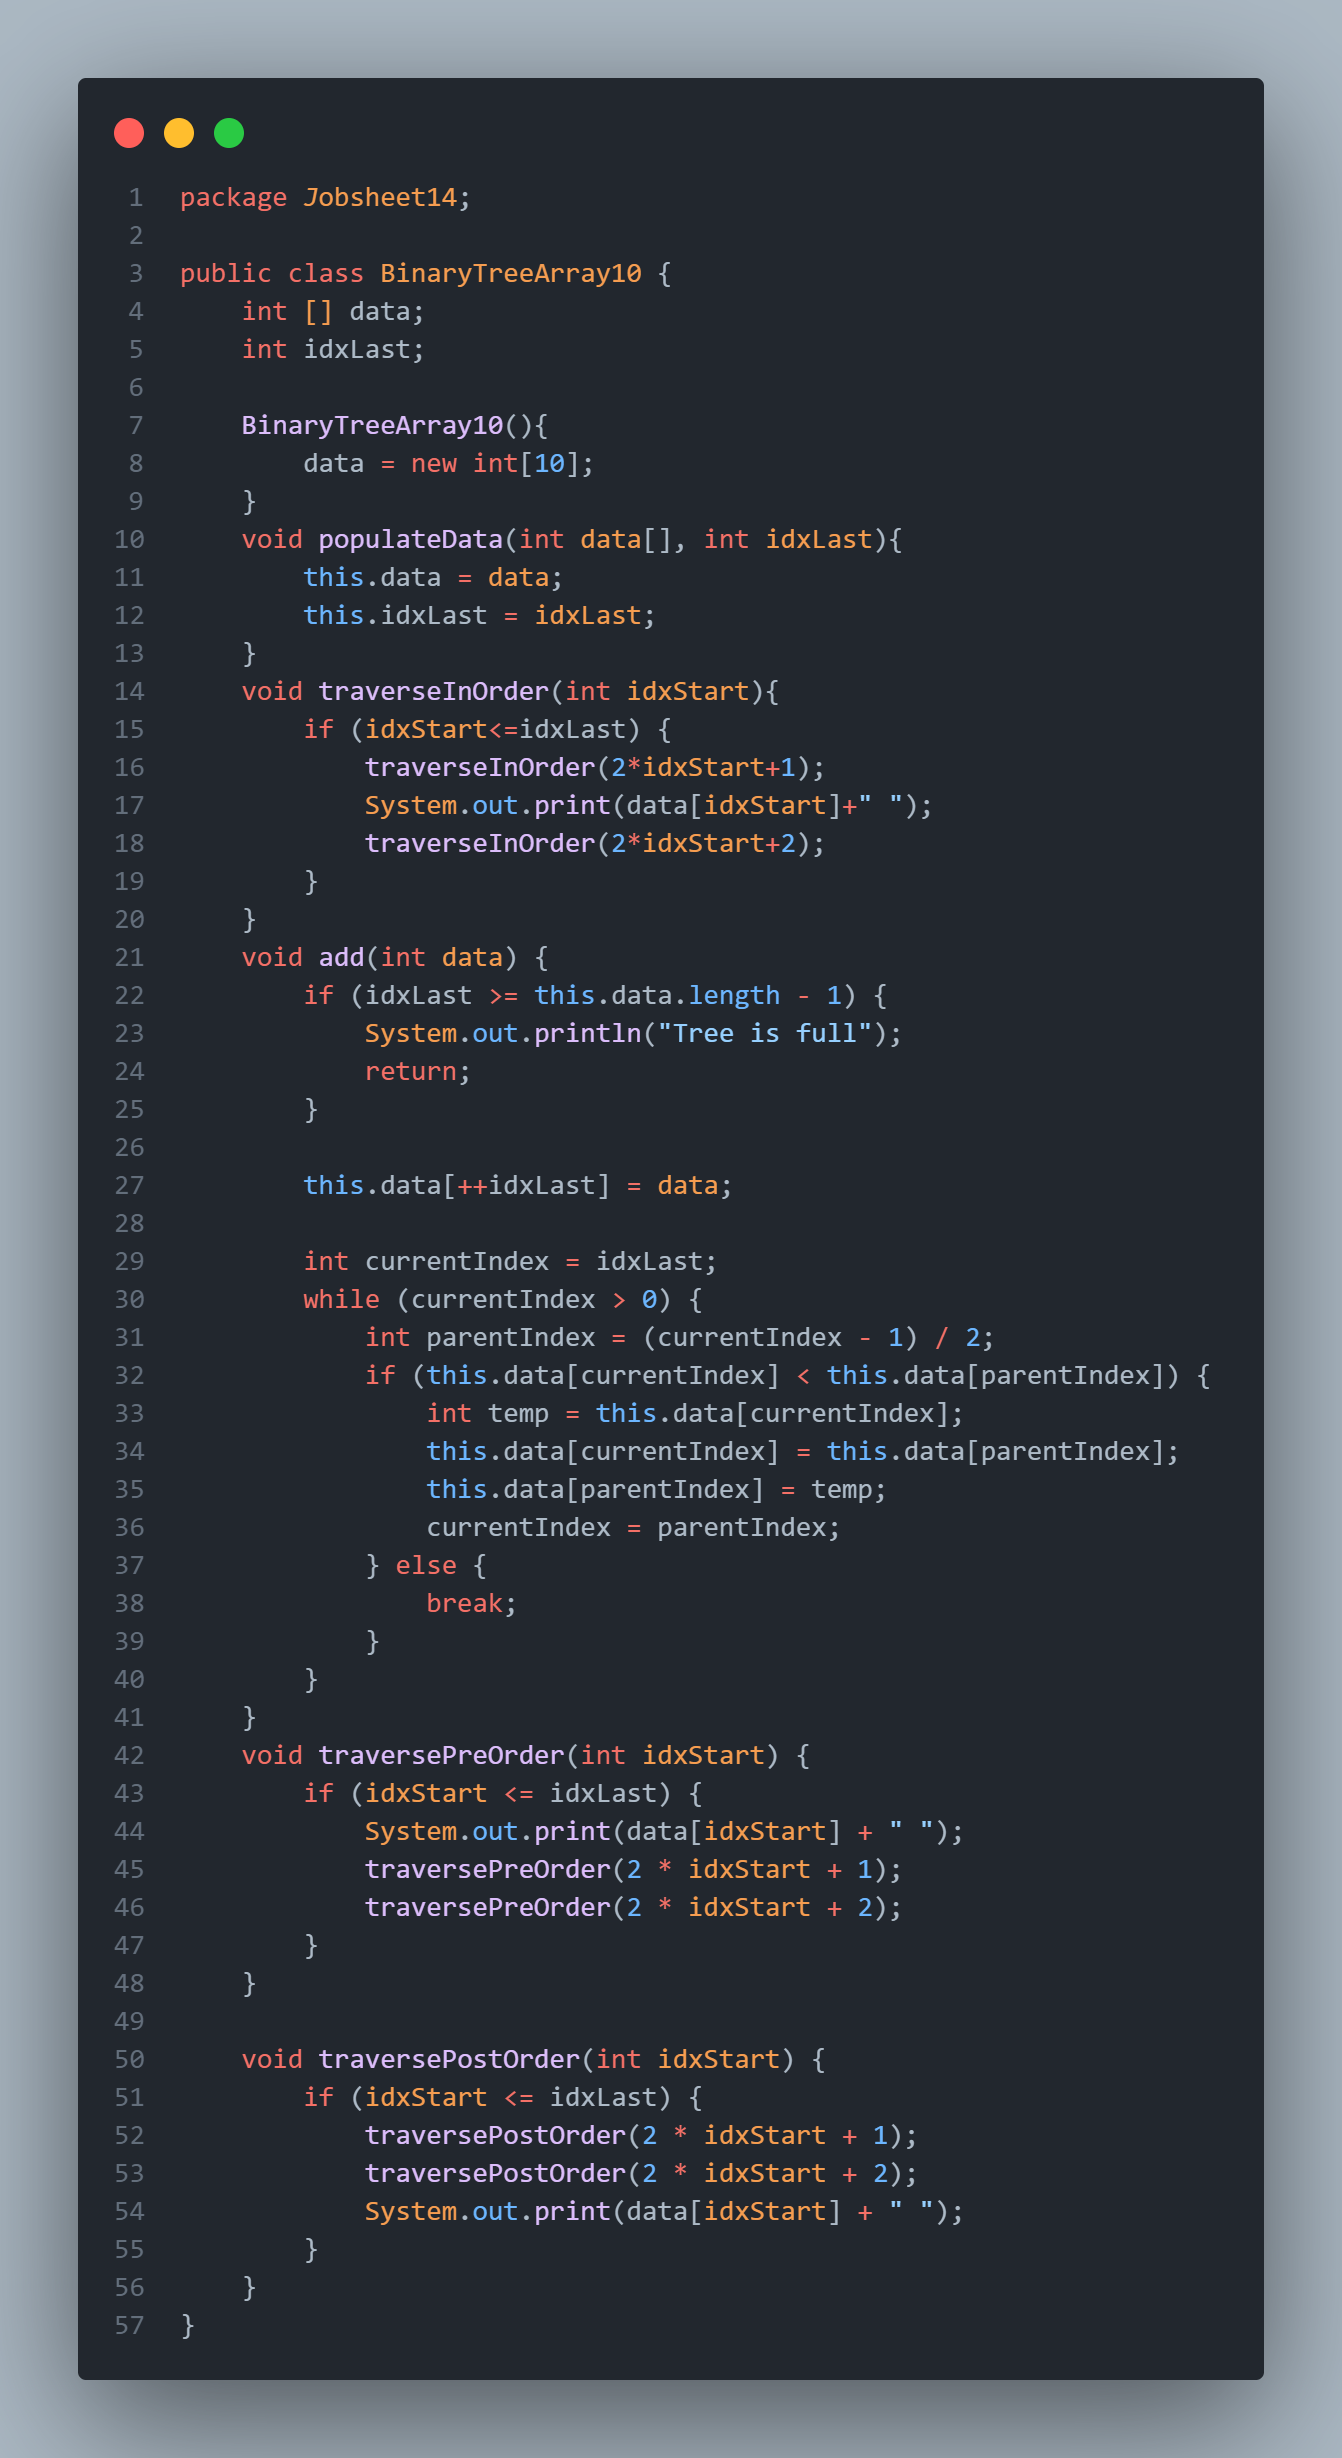
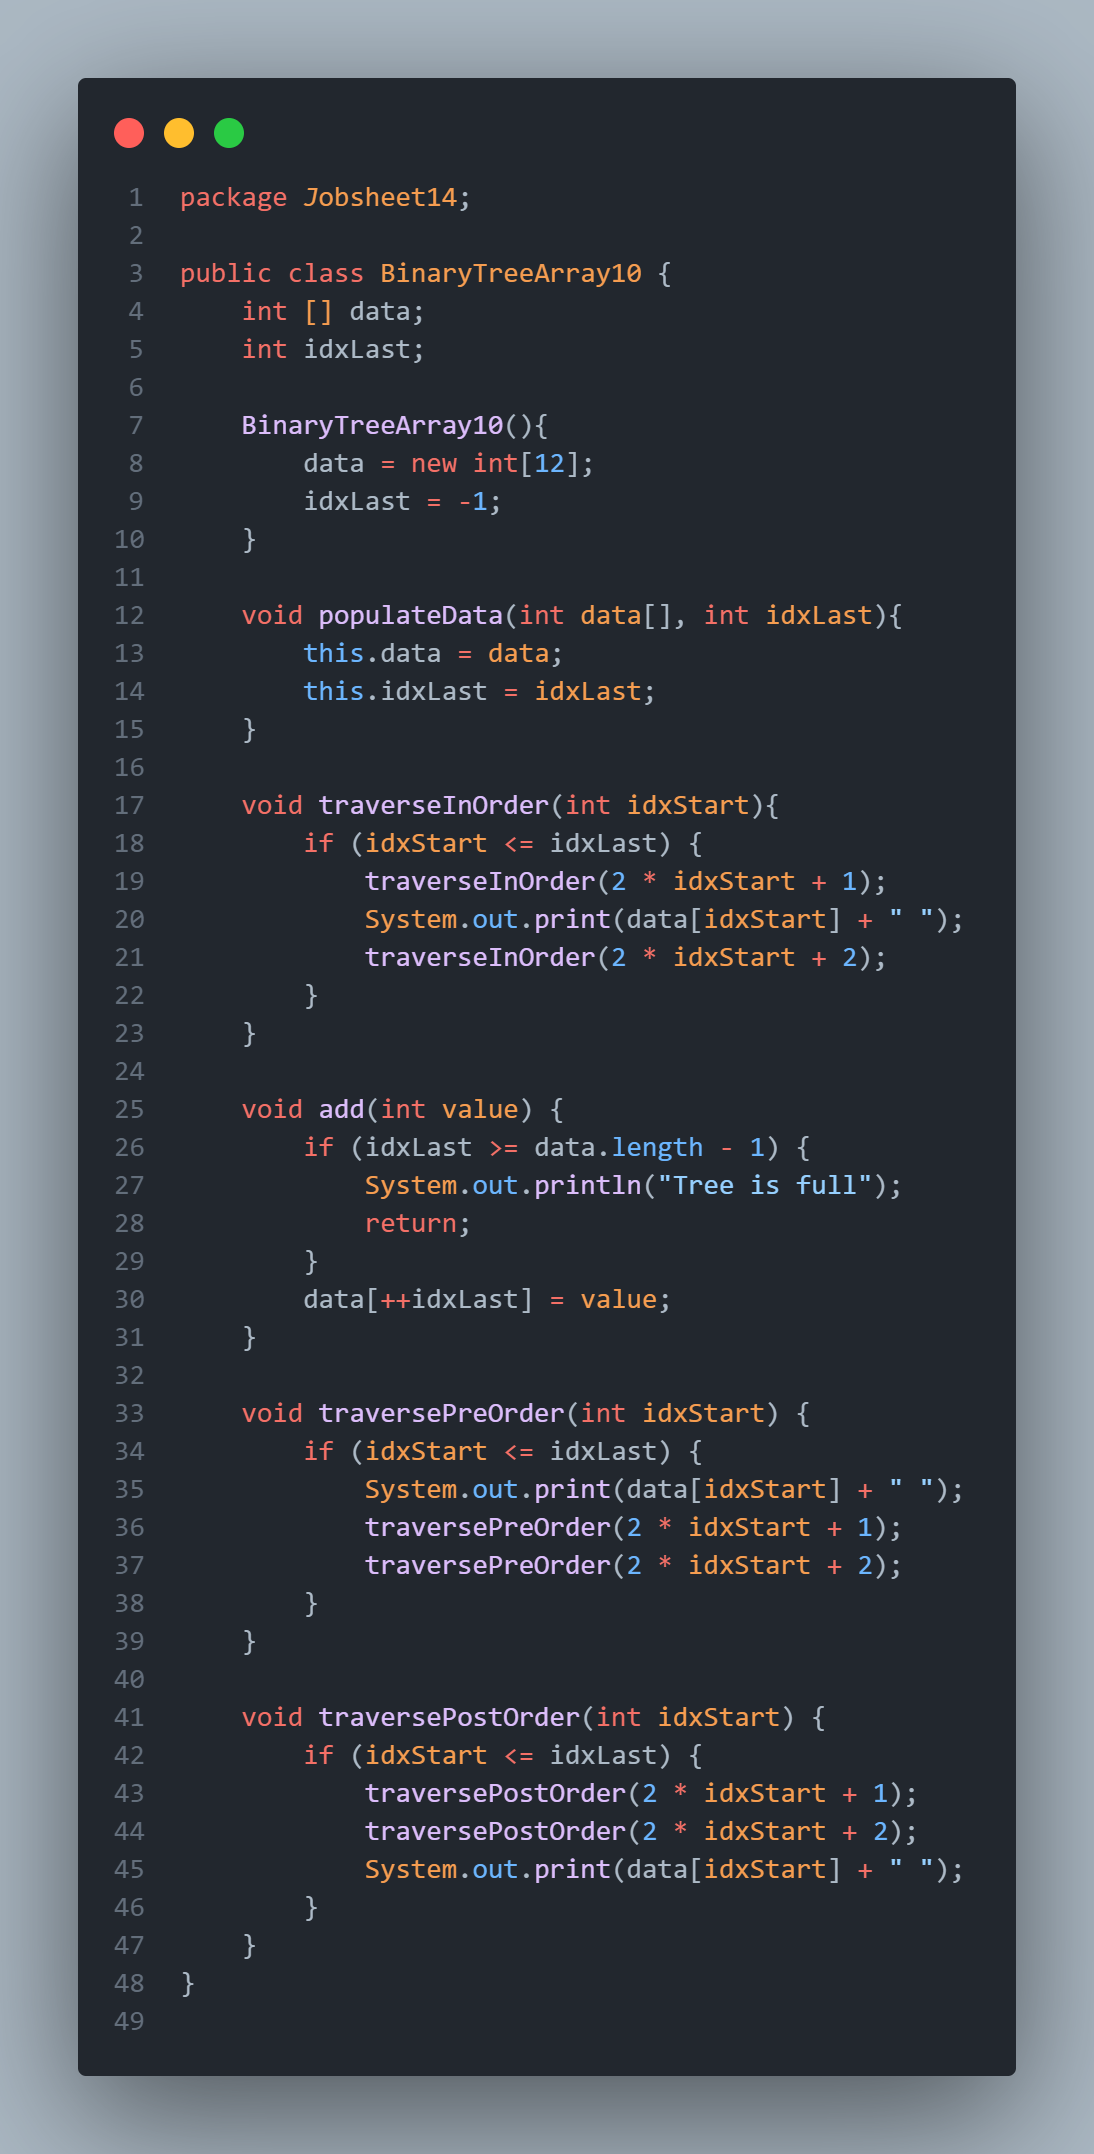
fix

diff --git a/Jobsheet14/BinaryTreeArray10.java b/Jobsheet14/BinaryTreeArray10.java
@@ -5,39 +5,31 @@ public class BinaryTreeArray10 {
     int idxLast;
 
     BinaryTreeArray10(){ 
-        data = new int[10];
+        data = new int[12];
         idxLast = -1;
     }
+
     void populateData(int data[], int idxLast){ 
         this.data = data;
         this.idxLast = idxLast;
     }
+
     void traverseInOrder(int idxStart){
-        if (idxStart<=idxLast) {
-            traverseInOrder(2*idxStart+1);
-            System.out.print(data[idxStart]+" ");
-            traverseInOrder(2*idxStart+2);
+        if (idxStart <= idxLast) {
+            traverseInOrder(2 * idxStart + 1);
+            System.out.print(data[idxStart] + " ");
+            traverseInOrder(2 * idxStart + 2);
         }
     }
-    void add(int data) {
-        if (idxLast >= this.data.length - 1) {
+
+    void add(int value) {
+        if (idxLast >= data.length - 1) {
             System.out.println("Tree is full");
             return;
         }
-        this.data[++idxLast] = data;
-        int currentIndex = idxLast;
-        while (currentIndex > 0) {
-            int parentIndex = (currentIndex - 1) / 2;
-            if (this.data[currentIndex] < this.data[parentIndex]) {
-                int temp = this.data[currentIndex];
-                this.data[currentIndex] = this.data[parentIndex];
-                this.data[parentIndex] = temp;
-                currentIndex = parentIndex;
-            } else {
-                break; 
-            }
-        }
+        data[++idxLast] = value;
     }
+
     void traversePreOrder(int idxStart) {
         if (idxStart <= idxLast) {
             System.out.print(data[idxStart] + " ");
@@ -45,6 +37,7 @@ public class BinaryTreeArray10 {
             traversePreOrder(2 * idxStart + 2);
         }
     }
+
     void traversePostOrder(int idxStart) {
         if (idxStart <= idxLast) {
             traversePostOrder(2 * idxStart + 1);

diff --git a/Jobsheet14/BinaryTreeArrayMain10.java b/Jobsheet14/BinaryTreeArrayMain10.java
@@ -3,19 +3,25 @@ package Jobsheet14;
 public class BinaryTreeArrayMain10 {
     public static void main(String[] args) {
         BinaryTreeArray10 bta = new BinaryTreeArray10();
-        int [] data = {6,4,8,3,5,7,9,0,0,0};
-        int idxLast = 6;
-        bta.populateData(data, idxLast);
-        System.out.print("\nInorder Traversal : ");
+        
+        int[] initialData = {6, 4, 8, 3, 5, 7, 9, 0, 0, 0, 0};
+        int idxLast = 9;  
+        bta.populateData(initialData, idxLast);
+
+        System.out.print("Inorder Traversal : ");
         bta.traverseInOrder(0);
         System.out.println("\n");
+
         System.out.print("Preorder Traversal: ");
         bta.traversePreOrder(0);
         System.out.println("\n");
+
         System.out.print("Postorder Traversal: ");
         bta.traversePostOrder(0);
         System.out.println("\n");
-        bta.add(2);
+
+        bta.add(10);
+
         System.out.print("Inorder Traversal setelah menambahkan 10: ");
         bta.traverseInOrder(0);
         System.out.println();

diff --git a/Jobsheet14/Laporan Jobsheet 14/Laporan Jobseheet 14.md b/Jobsheet14/Laporan Jobsheet 14/Laporan Jobseheet 14.md
@@ -158,9 +158,13 @@ _BinaryTreeArray10 Class :_
 
 ![alt text](code7.png)
 
-_BinaryTreeMain10 Class :_
+_BinaryTreeAraayMain10 Class :_
 
 ![alt text](code8.png)
 
 _Output :_
+
+![alt text](image-3.png)
+
+
 
